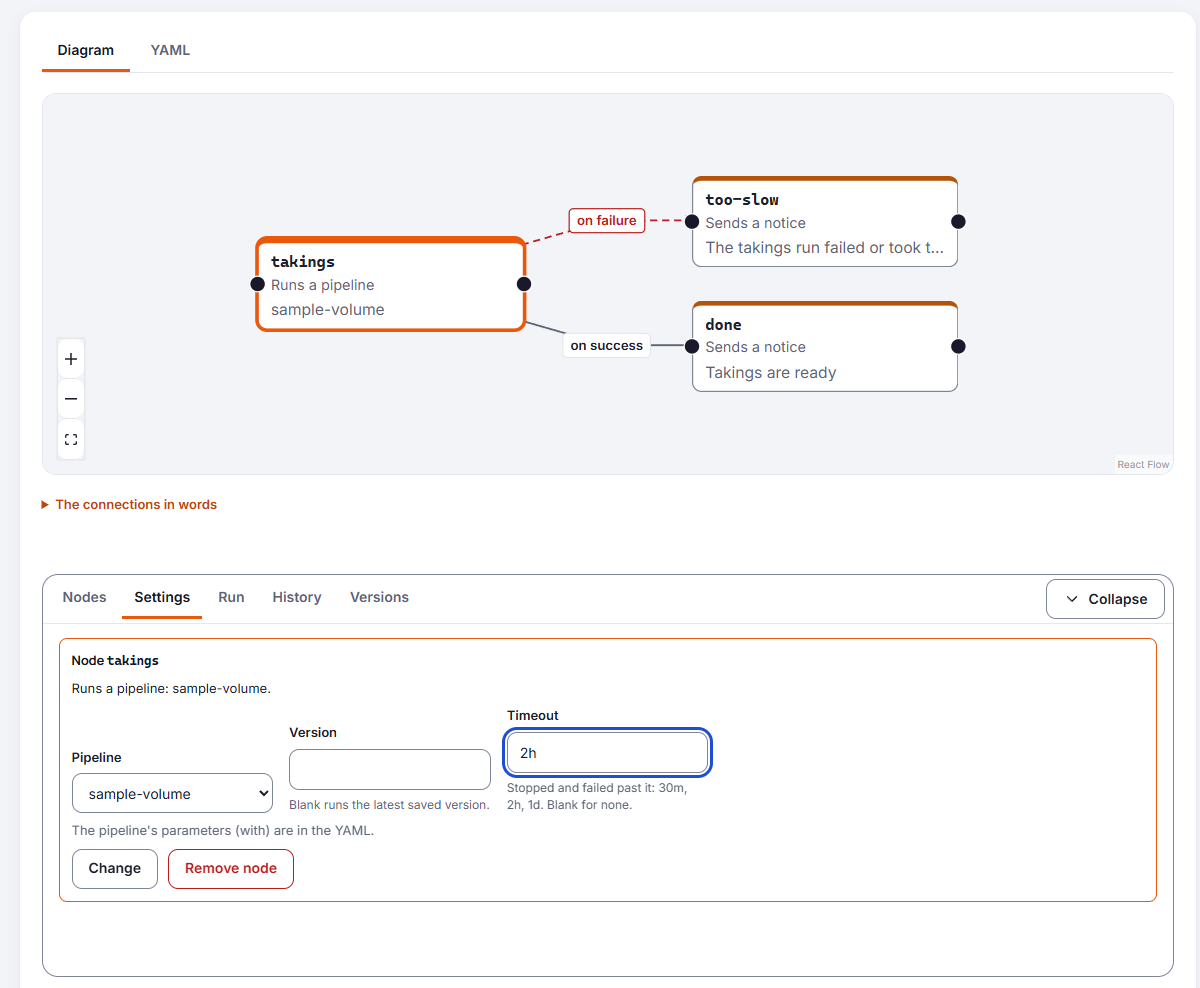
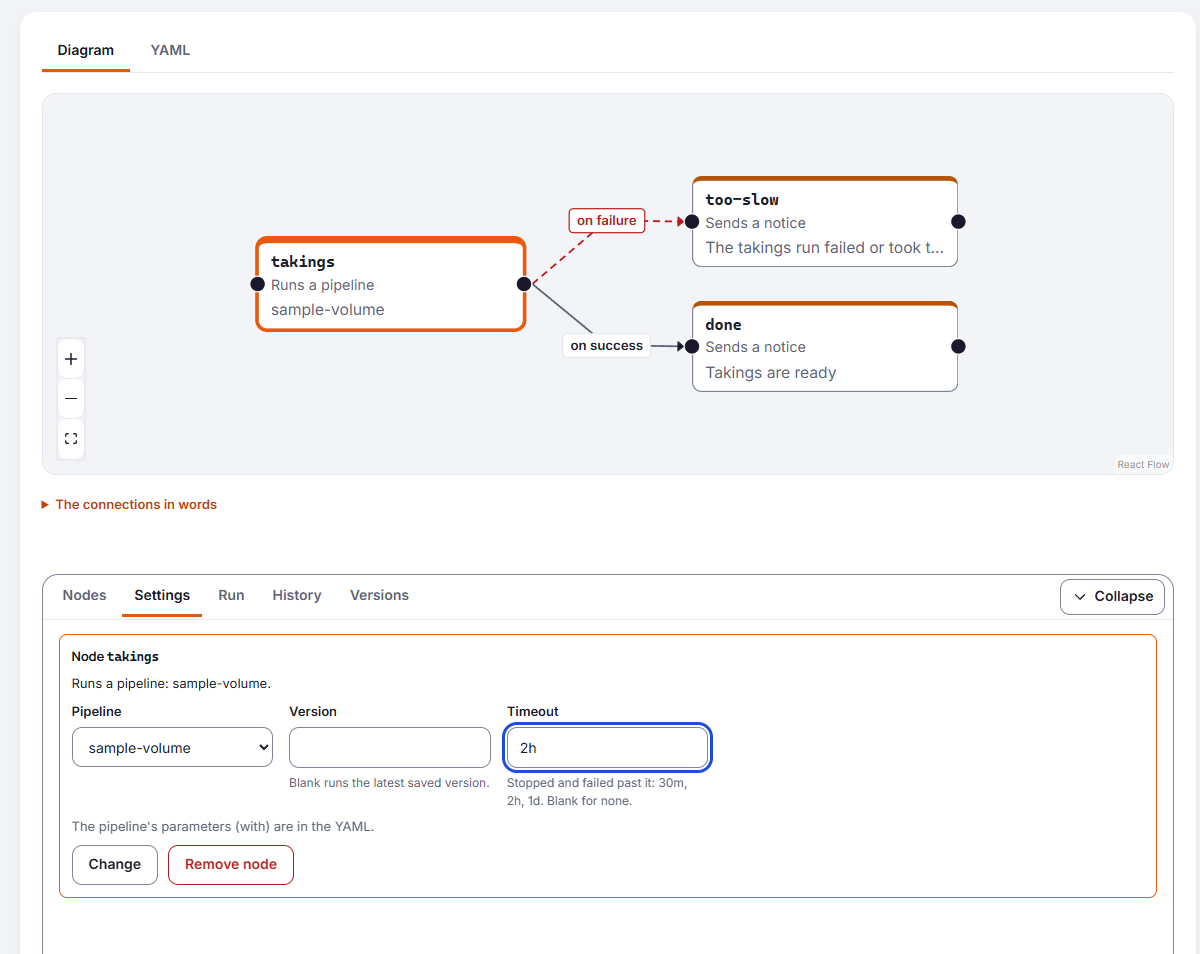
Node settings: line fields up at the top
A field with a two-line hint (Timeout) sat higher than the others, as the
row aligned each field to its bottom. The node Settings form now aligns them
to the top; the other tool rows keep lining buttons up with their inputs.
Screenshot retaken.

diff --git a/ui/src/flows/flows.css b/ui/src/flows/flows.css
@@ -182,7 +182,9 @@
   border-radius: 8px;
 }
 
+/* A node's settings line up at the top, so a field with a longer hint does not sit higher than the rest. */
 .fd-tools-row.fd-chosen {
+  align-items: start;
   border-color: var(--km-accent);
 }
 
